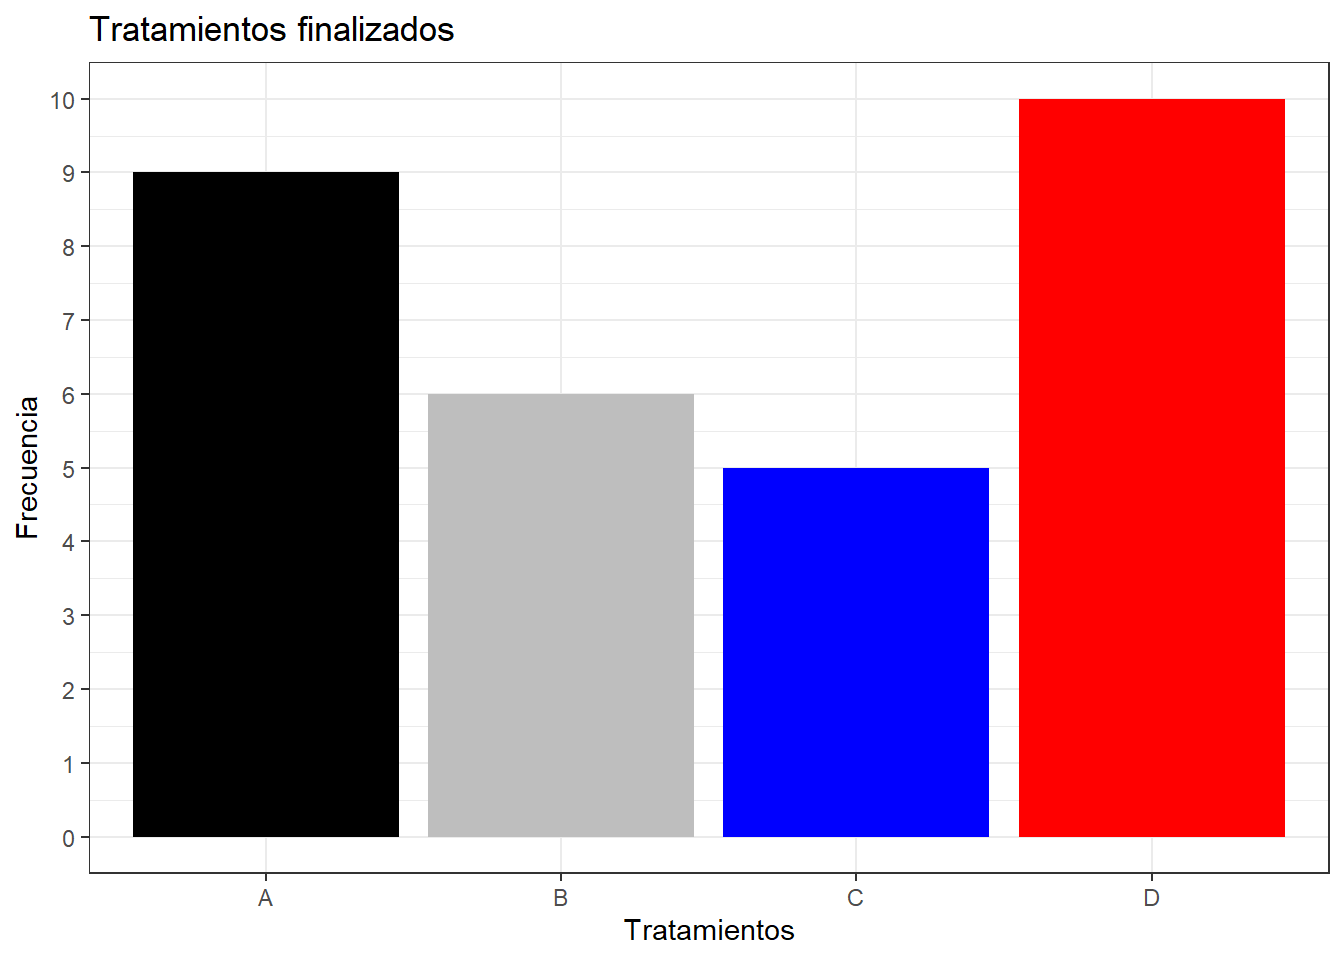
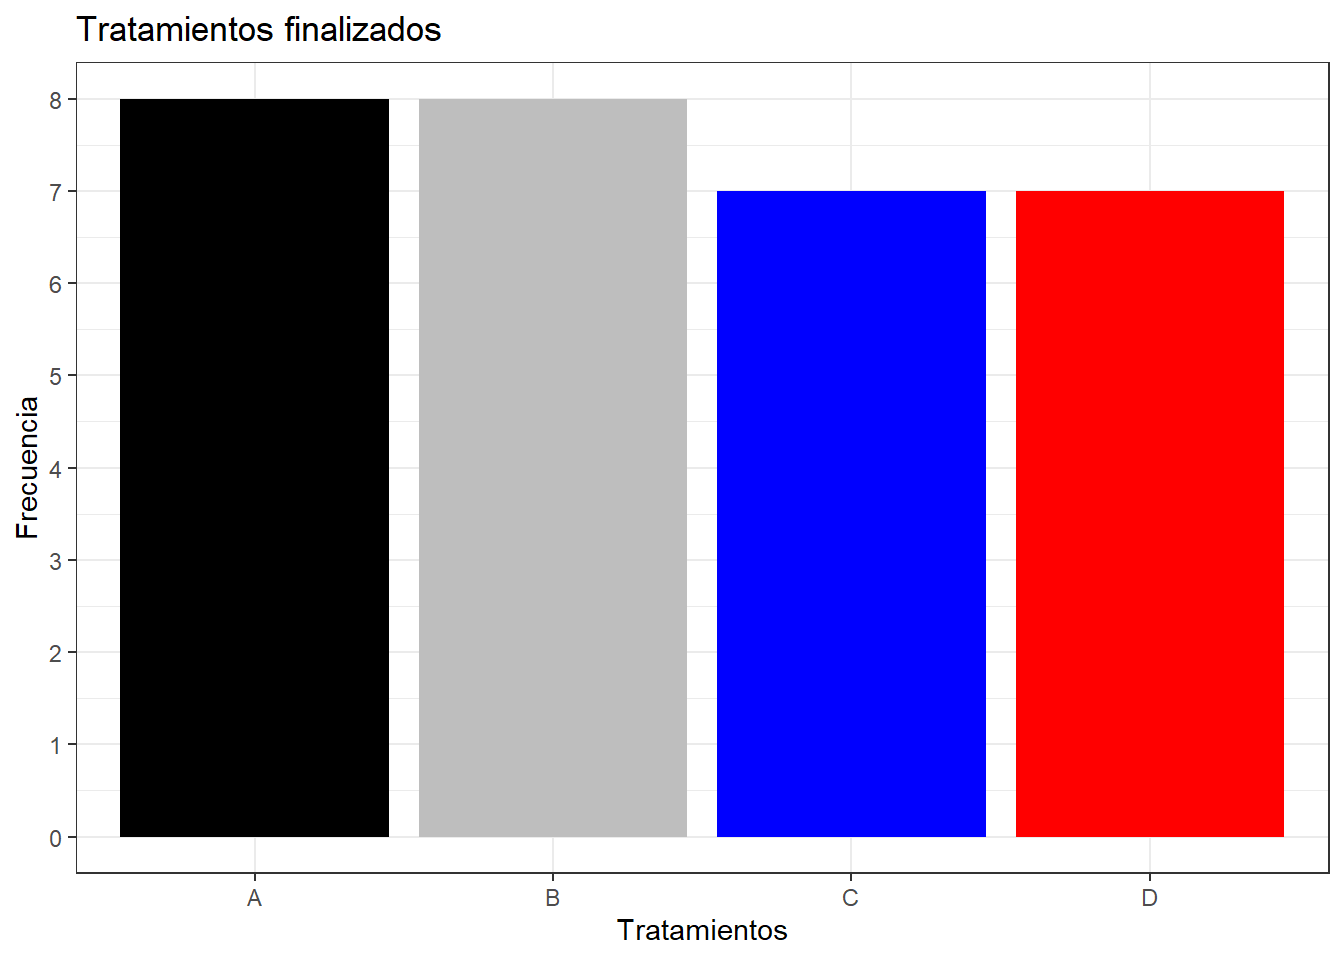
solucionando problemas postagens barchart

diff --git a/content/blog/2022-05-24-mejor-digalo-con-graficos/index.html b/content/blog/2022-05-24-mejor-digalo-con-graficos/index.html
@@ -4,7 +4,7 @@ layout: single-sidebar
 excerpt: "Una introducción a los increíbles gráficos de barras. ¡Tan simple, pero comunican mucho!"
 author: Eliana F. Burgos
 date: '2022-05-24'
-slug: IntroGitHub
+slug: introGraficos
 categories: 
   - ES
   - ggplot
@@ -46,8 +46,8 @@ lastmod: '2022-05-24'
 frec.tratam &lt;- table(tratamiento)
 frec.tratam</code></pre>
 <pre><code>## tratamiento
-##  A  B  C  D 
-##  9  6  5 10</code></pre>
+## A B C D 
+## 8 8 7 7</code></pre>
 <p>Por último graficamos.</p>
 <pre class="r"><code>barplot(frec.tratam)</code></pre>
 <p><img src="{{< blogdown/postref >}}index_files/figure-html/unnamed-chunk-2-1.png" width="672" /></p>
